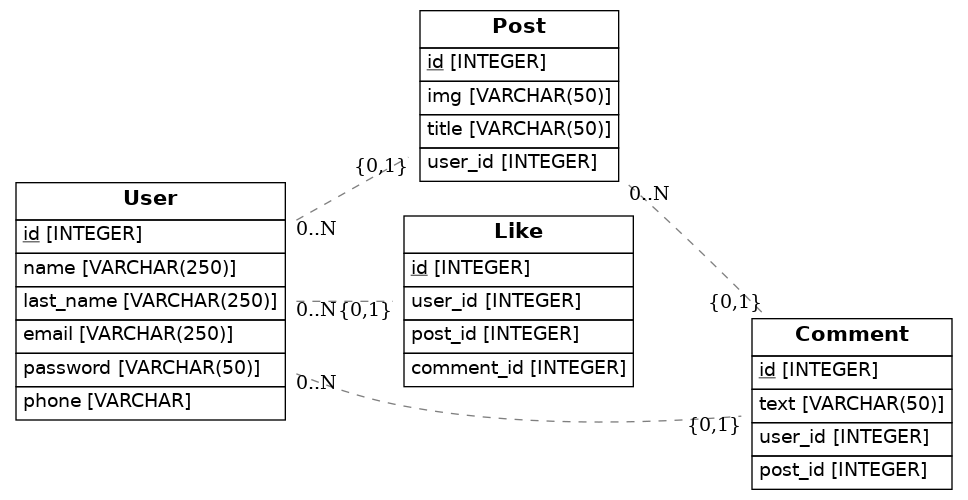
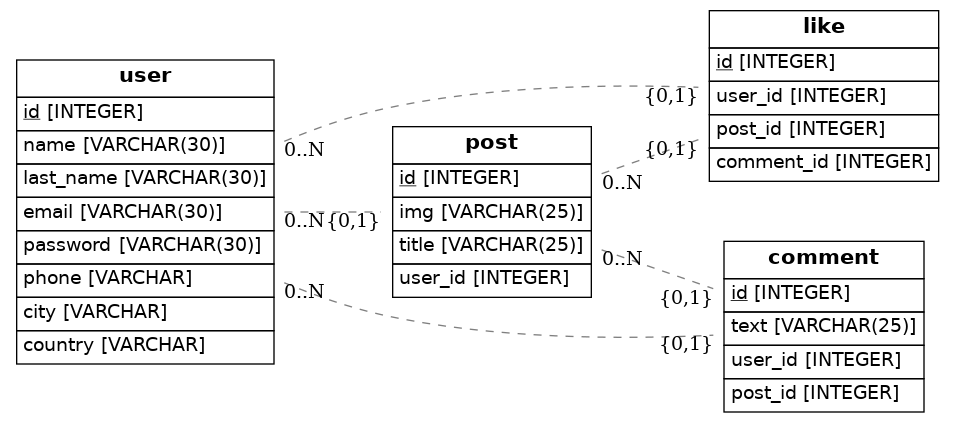
instagramdatamodel

Changed region(s): [[0.0, 0.0, 1.0, 0.8605], [0.6984, 0.5532, 1.0, 0.9835]]

diff --git a/src/models.py b/src/models.py
@@ -9,34 +9,36 @@ from eralchemy import render_er
 Base = declarative_base()
 
 class User(Base):
-    __tablename__ = 'User'
+    __tablename__ = 'user'
     id = Column(Integer, primary_key=True)
-    name = Column(String(250))
-    last_name = Column(String(250))
-    email = Column(String(250))
-    password = Column(String(50))
+    name = Column(String(30))
+    last_name = Column(String(30))
+    email = Column(String(30))
+    password = Column(String(30))
     phone = Column(String, nullable=False)
+    city = Column(String, nullable=False)
+    country = Column(String, nullable=False)
 
 class Post(Base):
-    __tablename__ = 'Post'
+    __tablename__ = 'post'
     id = Column(Integer, primary_key=True)
-    img = Column(String(50))
-    title = Column(String(50))
-    user_id = Column(Integer, ForeignKey('User.id'))
+    img = Column(String(25))
+    title = Column(String(25))
+    user_id = Column(Integer, ForeignKey('user.id'))
 
 class Like(Base):
-    __tablename__ = 'Like'
+    __tablename__ = 'like'
     id = Column(Integer, primary_key=True)
-    user_id = Column(Integer, ForeignKey('User.id'))
-    post_id = Column(Integer, ForeignKey('Post_id.id'))
-    comment_id = Column(Integer, ForeignKey('Comment_id.id'))
+    user_id = Column(Integer, ForeignKey('user.id'))
+    post_id = Column(Integer, ForeignKey('post.id'))
+    comment_id = Column(Integer, ForeignKey('comment_id.id'))
 
 class Comment(Base):
-    __tablename__ = 'Comment'
+    __tablename__ = 'comment'
     id = Column(Integer, primary_key=True)
-    text = Column(String(50))
-    user_id = Column(Integer, ForeignKey('User.id'))
-    post_id = Column(Integer, ForeignKey('Post.id'))
+    text = Column(String(25))
+    user_id = Column(Integer, ForeignKey('user.id'))
+    post_id = Column(Integer, ForeignKey('post.id'))
 
 
     def to_dict(self):
